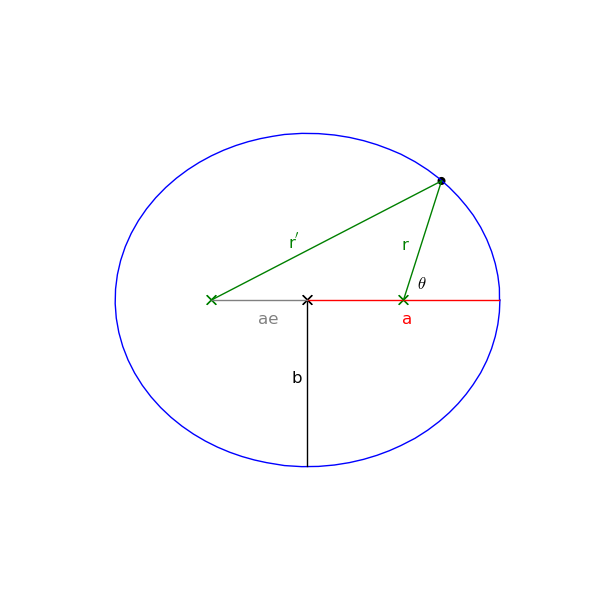
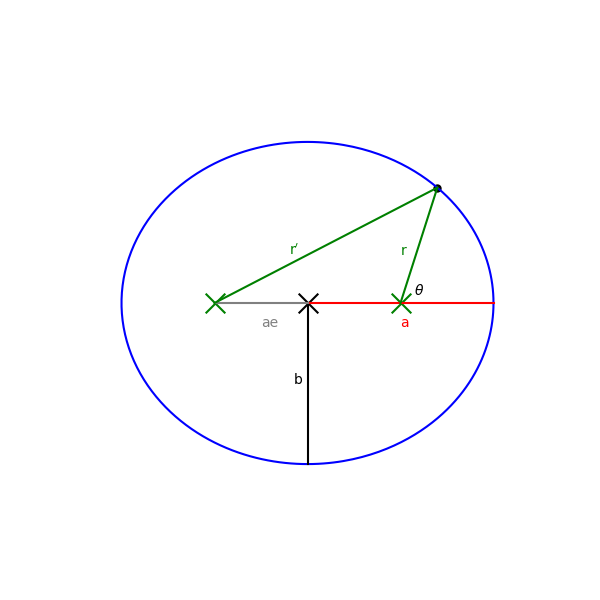
update style

diff --git a/ellipses/ellipse_fig/ellipse_geom.py b/ellipses/ellipse_fig/ellipse_geom.py
@@ -1,6 +1,5 @@
-import math
-import numpy
-import pylab
+import numpy as np
+import matplotlib.pyplot as plt
 
 # show the ellipse geometry
 
@@ -11,74 +10,70 @@ def ellipse():
 
     # theta ranges from 0 to 2pi
     npts = 250
-    theta = numpy.arange(npts)*2.0*math.pi/(npts-1)
+    theta = np.arange(npts)*2.0*np.pi/(npts-1)
 
     e = 0.5
     a = 1.0
-    b = a*math.sqrt(1-e*e)
+    b = a*np.sqrt(1-e*e)
 
-    n = npts/5
- 
-    r = a*(1.0 - e*e)/(1.0 + e*numpy.cos(theta))
+    n = npts//5
 
-    x = r*numpy.cos(theta)
-    y = r*numpy.sin(theta)
+    r = a*(1.0 - e*e)/(1.0 + e*np.cos(theta))
+
+    x = r*np.cos(theta)
+    y = r*np.sin(theta)
 
 
     # plotting
-    pylab.clf()
+    plt.clf()
 
-    ax = pylab.gca()
+    ax = plt.gca()
     ax.set_aspect("equal", "datalim")
-    pylab.axis("off")
-        
+    plt.axis("off")
+
     # Draw the ellipse
-    pylab.plot(x,y,color="b")
+    plt.plot(x,y,color="b")
 
     # draw our current point
-    pylab.scatter([x[n]],[y[n]], color="k", s=25)
+    plt.scatter([x[n]],[y[n]], color="k", s=25)
 
     # second foci
-    pylab.scatter([-2.0*a*e],[0], color="g", marker="x", s=200)
+    plt.scatter([-2.0*a*e],[0], color="g", marker="x", s=200)
 
     # primary foci
-    pylab.scatter([0],       [0], color="g", marker="x", s=200)
+    plt.scatter([0], [0], color="g", marker="x", s=200)
 
     # center
-    pylab.scatter([-a*e],       [0], color='k', marker="x", s=200)
+    plt.scatter([-a*e], [0], color='k', marker="x", s=200)
 
     # draw the semi-major axis
-    pylab.plot([-a*e,a*(1-e)],[0,0], color='r')
-    pylab.text(0.5*a - a*e, -0.15*b, "a", color='r')
+    plt.plot([-a*e,a*(1-e)],[0,0], color='r')
+    plt.text(0.5*a - a*e, -0.15*b, "a", color='r')
 
     # draw the semi-minor axis
-    pylab.plot([-a*e,-a*e], [0,-b], color='k')
-    pylab.text(-a*e-0.15*a*e, -0.5*b, "b", color='k')
+    plt.plot([-a*e,-a*e], [0,-b], color='k')
+    plt.text(-a*e-0.15*a*e, -0.5*b, "b", color='k')
 
-    pylab.plot([-a*e, -2*a*e], [0,0], color="0.5")
-    pylab.text(-1.5*a*e, -0.15*b, "ae", color="0.5")
+    plt.plot([-a*e, -2*a*e], [0,0], color="0.5")
+    plt.text(-1.5*a*e, -0.15*b, "ae", color="0.5")
 
     # draw lines connecting the foci to the current point
-    pylab.plot([0,x[n]],[0,y[n]], color="g")
-    pylab.text(0, 0.3*b, "r", color="g")
+    plt.plot([0,x[n]],[0,y[n]], color="g")
+    plt.text(0, 0.3*b, "r", color="g")
 
-    pylab.plot([-2.0*a*e,x[n]],[0,y[n]], color="g")
-    pylab.text(-a*e-0.1*a, 0.3*b, r"r$^\prime$", color="g")
+    plt.plot([-2.0*a*e,x[n]],[0,y[n]], color="g")
+    plt.text(-a*e-0.1*a, 0.3*b, r"r$^\prime$", color="g")
     # indicate the angle
-    pylab.text(0.075*a, 0.05*b, r"$\theta$", color="k")
-    
-    pylab.axis([-1.75,.75,-1.25,1.25])
- 
-    f = pylab.gcf()
+    plt.text(0.075*a, 0.05*b, r"$\theta$", color="k")
+
+    plt.axis([-1.75,.75,-1.25,1.25])
+
+    f = plt.gcf()
     f.set_size_inches(6.0,6.0)
 
     outfile = "ellipse_geom.png"
-    pylab.savefig(outfile)
+    plt.savefig(outfile)
 
 
 if __name__== "__main__":
     ellipse()
-
-
-    
-        

diff --git a/ellipses/ellipse_fig/ellipse_vel.py b/ellipses/ellipse_fig/ellipse_vel.py
@@ -1,6 +1,5 @@
-import math
-import numpy
-import pylab
+import numpy as np
+import matplotlib.pyplot as plt
 
 # show the velocity vectors at perihelion and aphelion for ellipse geometry
 
@@ -11,61 +10,56 @@ def ellipse():
 
     # theta ranges from 0 to 2pi
     npts = 250
-    theta = numpy.arange(npts)*2.0*math.pi/(npts-1)
+    theta = np.arange(npts)*2.0*np.pi/(npts-1)
 
     e = 0.5
     a = 1.0
-    b = a*math.sqrt(1-e*e)
+    b = a*np.sqrt(1-e*e)
 
     n = npts/5
- 
-    r = a*(1.0 - e*e)/(1.0 + e*numpy.cos(theta))
 
-    x = r*numpy.cos(theta)
-    y = r*numpy.sin(theta)
+    r = a*(1.0 - e*e)/(1.0 + e*np.cos(theta))
 
+    x = r*np.cos(theta)
+    y = r*np.sin(theta)
 
     # plotting
-    pylab.clf()
+    plt.clf()
 
-    ax = pylab.gca()
+    ax = plt.gca()
     ax.set_aspect("equal", "datalim")
-    pylab.axis("off")
-        
+    plt.axis("off")
+
     # Draw the ellipse
-    pylab.plot(x,y,color="b")
+    plt.plot(x,y,color="b")
 
     # primary foci
-    pylab.scatter([0],       [0], color="k", marker="x", s=200)
+    plt.scatter([0], [0], color="k", marker="x", s=200)
 
     # draw arrow to perihelion
     eps = 0.033*a
-    pylab.plot([0,a*(1-e)],[0,0], color='r')
-    pylab.plot([a*(1-e),a*(1-e)-eps],[0,eps], color='r')
-    pylab.plot([a*(1-e),a*(1-e)-eps],[0,-eps], color='r')
-    pylab.text(0.5*a*(1-e), -0.15*b, "r", color='r')
+    plt.plot([0,a*(1-e)],[0,0], color='r')
+    plt.plot([a*(1-e),a*(1-e)-eps],[0,eps], color='r')
+    plt.plot([a*(1-e),a*(1-e)-eps],[0,-eps], color='r')
+    plt.text(0.5*a*(1-e), -0.15*b, "r", color='r')
 
-    
+
     # draw velocity at perihelion
     vel = 0.66*a
-    pylab.plot([a*(1-e),a*(1-e)], [0, vel], color='g')
-    pylab.plot([a*(1-e),a*(1-e)-eps], [vel, vel-eps], color='g')
-    pylab.plot([a*(1-e),a*(1-e)+eps], [vel, vel-eps], color='g')
-    pylab.text(a*(1-e)+0.05*b,0.5*vel, "v", color='g')
-    
-    pylab.axis([-1.75,.75,-1.25,1.25])
- 
+    plt.plot([a*(1-e),a*(1-e)], [0, vel], color='g')
+    plt.plot([a*(1-e),a*(1-e)-eps], [vel, vel-eps], color='g')
+    plt.plot([a*(1-e),a*(1-e)+eps], [vel, vel-eps], color='g')
+    plt.text(a*(1-e)+0.05*b,0.5*vel, "v", color='g')
 
-    f = pylab.gcf()
+    plt.axis([-1.75,.75,-1.25,1.25])
+
+
+    f = plt.gcf()
     f.set_size_inches(6.0,6.0)
 
     outfile = "ellipse_vel.png"
-    pylab.savefig(outfile)
+    plt.savefig(outfile)
 
 
 if __name__== "__main__":
     ellipse()
-
-
-    
-        

diff --git a/ellipses/ellipse_fig/ellipse_initial_cond.py b/ellipses/ellipse_fig/ellipse_initial_cond.py
@@ -1,0 +1,74 @@
+import numpy as np
+import matplotlib.pyplot as plt
+
+# show the initial conditions for integrating an orbit
+
+def ellipse():
+
+    # theta ranges from 0 to 2pi
+    npts = 250
+    theta = np.arange(npts)*2.0*np.pi/(npts-1)
+
+    e = 0.5
+    a = 1.0
+    b = a*np.sqrt(1-e*e)
+
+    n = npts/5
+
+    r = a*(1.0 - e*e)/(1.0 + e*np.cos(theta))
+
+    # perihelion at +y
+    x = r*np.cos(theta + np.pi/2)
+    y = r*np.sin(theta + np.pi/2)
+
+    # plotting
+    plt.clf()
+
+    ax = plt.gca()
+    ax.set_aspect("equal", "datalim")
+    plt.axis("off")
+
+    # draw the ellipse
+    plt.plot(x, y, color="C0")
+
+    # primary foci
+    plt.scatter([0], [0], color="k", marker=(20,1), s=250, zorder=-100)
+    plt.scatter([0], [0], color="y", marker=(20,1), s=200)
+
+    xp = 0
+    yp = a*(1-e)
+
+    # center
+    plt.scatter([0], [-a*e], color='k', marker="x", s=50)
+
+    # semi-major axis
+    plt.plot([0, 0], [-a*e, -a*(1+e)], color="0.5")
+    plt.text(-0.1*b, -0.5*(a*e + a*(1+e)), "a", color="0.5")
+
+    # draw arrow to perihelion
+    eps = 0.033*a
+    plt.plot([0, 0], [0, yp], color='C1')
+    plt.plot([0, eps], [a*(1-e), a*(1-e)-eps], color='C1')
+    plt.plot([0, -eps], [a*(1-e), a*(1-e)-eps], color='C1')
+    plt.text(-0.1*b, 0.5*a*(1-e), "r", color='C1')
+
+
+    # draw velocity at perihelion
+    vel = 0.5*a
+    plt.plot([0, -vel], [a*(1-e), a*(1-e)], color='C2')
+    plt.plot([-vel, -vel+eps], [a*(1-e), a*(1-e)-eps], color='C2')
+    plt.plot([-vel, -vel+eps], [a*(1-e), a*(1-e)+eps], color='C2')
+    plt.text(-0.5*vel, a*(1-e)+0.05*b, "v", color='C2')
+
+    plt.axis([-1.25, 1.25, -1.75, 0.75])
+
+    f = plt.gcf()
+    f.set_size_inches(6.0,6.0)
+
+    outfile = "ellipse_initial_cond.png"
+    plt.tight_layout()
+    plt.savefig(outfile, dpi=150, bbox_inches="tight")
+
+
+if __name__== "__main__":
+    ellipse()
